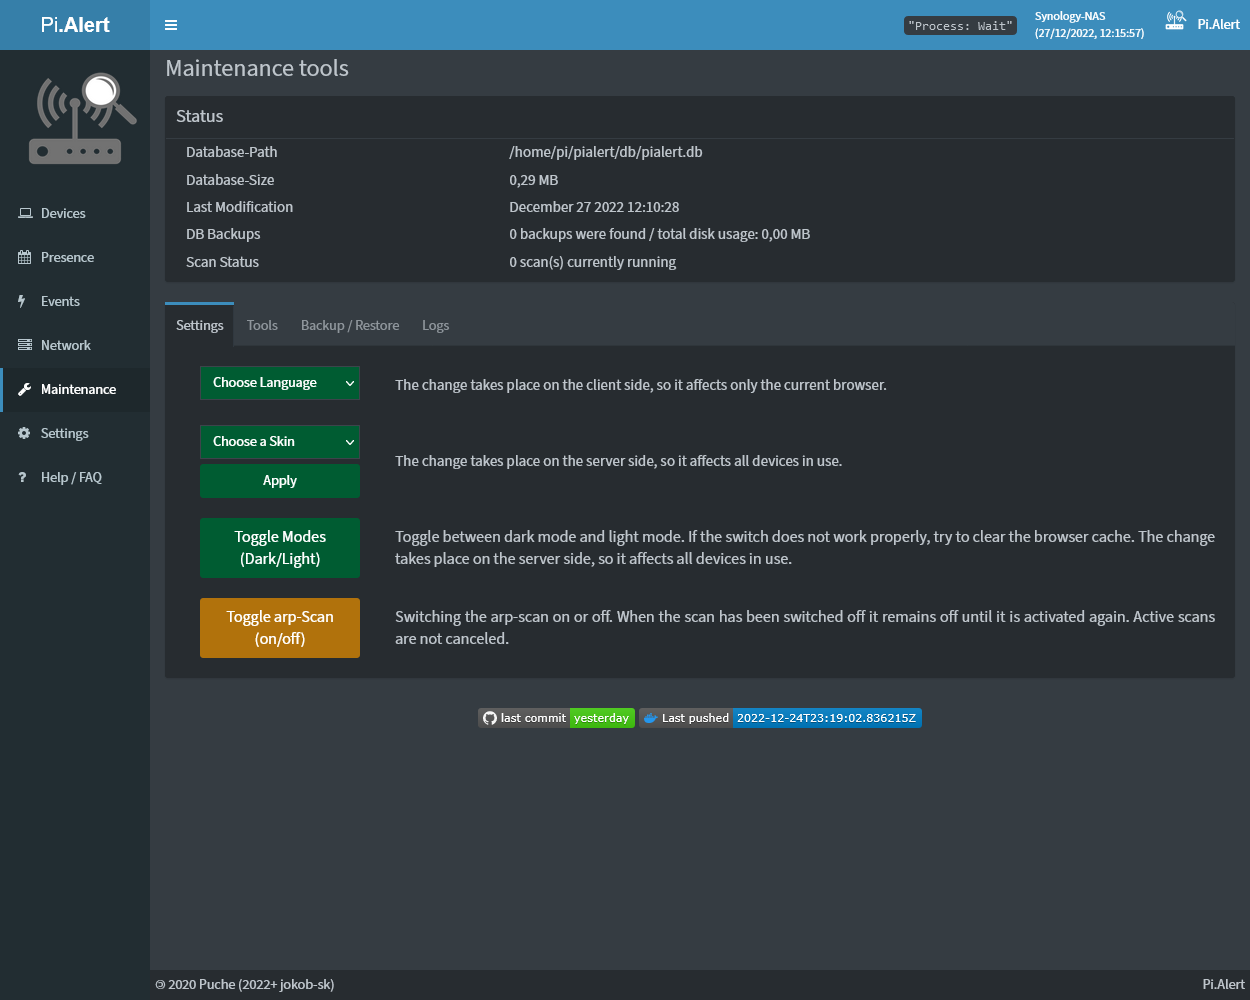
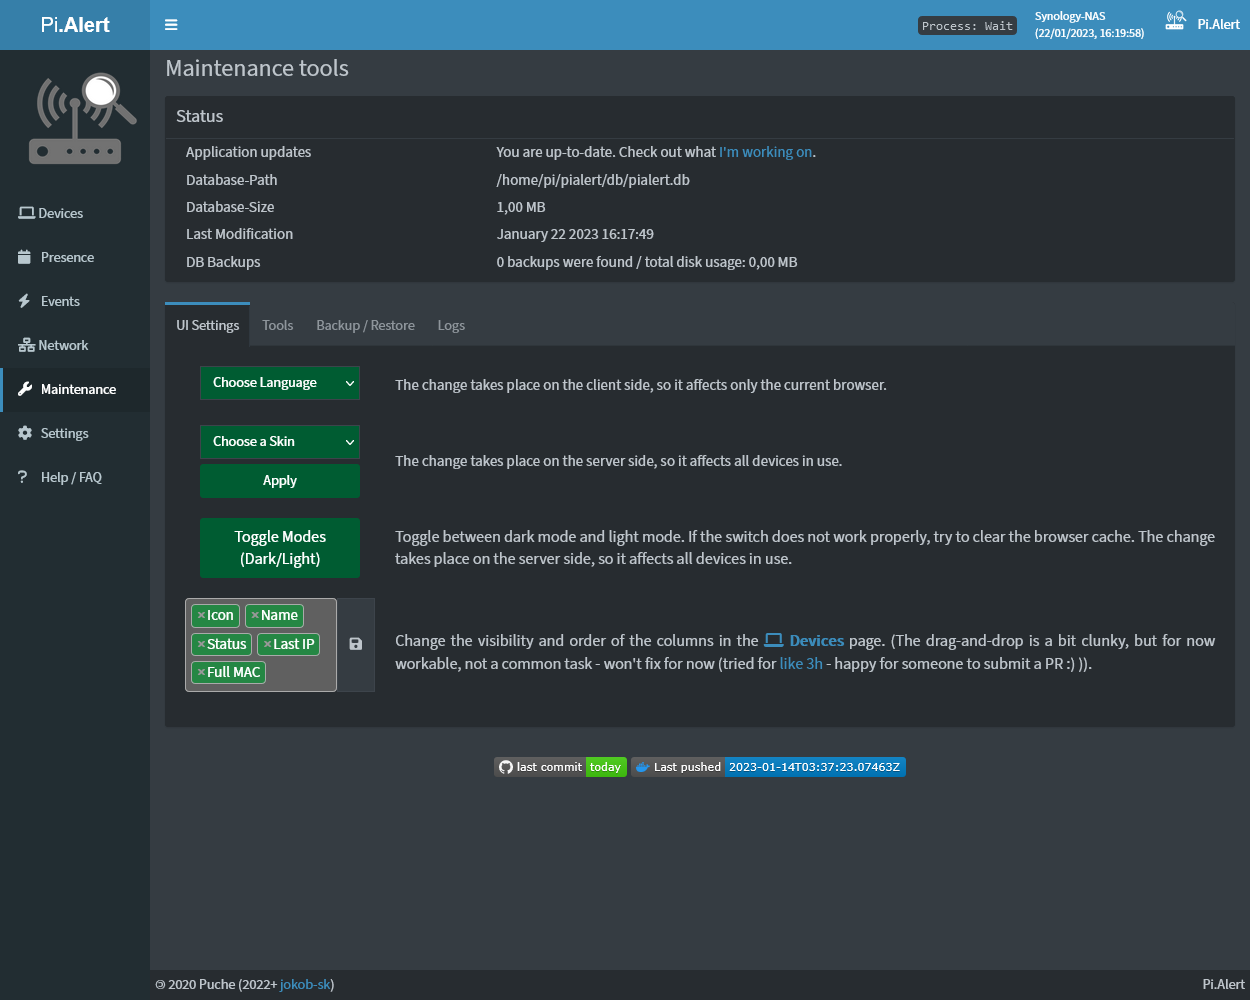
New screenshots

diff --git a/front/css/pialert.css b/front/css/pialert.css
@@ -691,6 +691,9 @@ height: 50px;
     margin: 10px;
     
 }
+#settingsPage .panel-heading:hover{    
+    background-color: #272c30;
+}
 
 .settings-expand-icon {
     font-size: medium;

diff --git a/back/pialert.py b/back/pialert.py
@@ -20,6 +20,7 @@ from email.mime.text import MIMEText
 import sys
 import subprocess
 import os
+import tempfile
 import re
 import time
 import decimal
@@ -112,6 +113,8 @@ def print_log (pText):
 
     # Save current time to calculate elapsed time until next log
     log_timestamp = log_timestamp2 
+
+    return pText
     
 #-------------------------------------------------------------------------------
 # check RW access of DB and config file
@@ -255,7 +258,7 @@ def importConfig ():
     # General
     global ENABLE_ARPSCAN, SCAN_SUBNETS, PRINT_LOG, TIMEZONE, PIALERT_WEB_PROTECTION, PIALERT_WEB_PASSWORD, INCLUDED_SECTIONS, SCAN_CYCLE_MINUTES, DAYS_TO_KEEP_EVENTS, REPORT_DASHBOARD_URL, DIG_GET_IP_ARG
     # Email
-    global REPORT_MAIL, SMTP_SERVER, SMTP_PORT, REPORT_TO, REPORT_FROM, SMTP_SKIP_LOGIN, SMTP_USER, SMTP_PASS, SMTP_SKIP_TLS
+    global REPORT_MAIL, SMTP_SERVER, SMTP_PORT, REPORT_TO, REPORT_FROM, SMTP_SKIP_LOGIN, SMTP_USER, SMTP_PASS, SMTP_SKIP_TLS, SMTP_FORCE_SSL
     # Webhooks
     global REPORT_WEBHOOK, WEBHOOK_URL, WEBHOOK_PAYLOAD, WEBHOOK_REQUEST_METHOD
     # Apprise
@@ -312,6 +315,7 @@ def importConfig ():
     SMTP_USER = ccd('SMTP_USER', '' , c_d, 'SMTP user', 'text', '', 'Email')
     SMTP_PASS = ccd('SMTP_PASS', '' , c_d, 'SMTP password', 'password', '', 'Email')
     SMTP_SKIP_TLS = ccd('SMTP_SKIP_TLS', False , c_d, 'SMTP skip TLS', 'boolean', '', 'Email')
+    SMTP_FORCE_SSL = ccd('SMTP_FORCE_SSL', False , c_d, 'Force SSL', 'boolean', '', 'Email')
 
     # Webhooks
     REPORT_WEBHOOK = ccd('REPORT_WEBHOOK', False , c_d, 'Enable Webhooks', 'boolean', '', 'Webhooks', ['test'])
@@ -2383,21 +2387,58 @@ def send_email (pText, pHTML):
     msg.attach (MIMEText (pText, 'plain'))
     msg.attach (MIMEText (pHTML, 'html'))
 
-    # Send mail
-    smtp_connection = smtplib.SMTP (SMTP_SERVER, SMTP_PORT)
-    smtp_connection.ehlo()
+    failedAt = ''
 
-    try: 
-        if not SMTP_SKIP_TLS:            
+    failedAt = print_log ('SMTP try')
+
+    try:
+        # Send mail
+        failedAt = print_log('Trying to open connection to ' + str(SMTP_SERVER) + ':' + str(SMTP_PORT))
+
+        if SMTP_FORCE_SSL:
+            failedAt = print_log('SMTP_FORCE_SSL == True so using .SMTP_SSL()')
+            if SMTP_PORT == 0:            
+                failedAt = print_log('SMTP_PORT == 0 so sending .SMTP_SSL(SMTP_SERVER)')
+                smtp_connection = smtplib.SMTP_SSL(SMTP_SERVER)
+            else:
+                failedAt = print_log('SMTP_PORT == 0 so sending .SMTP_SSL(SMTP_SERVER, SMTP_PORT)')
+                smtp_connection = smtplib.SMTP_SSL(SMTP_SERVER, SMTP_PORT)
+            
+        else:
+            failedAt = print_log('SMTP_FORCE_SSL == False so using .SMTP()')
+            if SMTP_PORT == 0:
+                failedAt = print_log('SMTP_PORT == 0 so sending .SMTP(SMTP_SERVER)')
+                smtp_connection = smtplib.SMTP (SMTP_SERVER)
+            else:
+                failedAt = print_log('SMTP_PORT == 0 so sending .SMTP(SMTP_SERVER, SMTP_PORT)')
+                smtp_connection = smtplib.SMTP (SMTP_SERVER, SMTP_PORT)
+
+        failedAt = print_log('Setting SMTP debug level')
+        smtp_connection.set_debuglevel(1) 
+        
+        failedAt = print_log( 'Sending .ehlo()')
+        smtp_connection.ehlo()
+
+        if not SMTP_SKIP_TLS:       
+            failedAt = print_log('SMTP_SKIP_TLS == False so sending .starttls()')
             smtp_connection.starttls()
+            failedAt = print_log('SMTP_SKIP_TLS == False so sending .ehlo()')
             smtp_connection.ehlo()
         if not SMTP_SKIP_LOGIN:
+            failedAt = print_log('SMTP_SKIP_LOGIN == False so sending .login()')
             smtp_connection.login (SMTP_USER, SMTP_PASS)
-
-            smtp_connection.sendmail (REPORT_FROM, REPORT_TO, msg.as_string())
-            smtp_connection.quit()
+            
+        failedAt = print_log('Sending .sendmail()')
+        smtp_connection.sendmail (REPORT_FROM, REPORT_TO, msg.as_string())
+        smtp_connection.quit()
     except smtplib.SMTPAuthenticationError as e: 
-        file_print('      ERROR: Couldn\'t connect to the SMTP server, skipping Email')
+        file_print('      ERROR: Failed at - ', failedAt)
+        file_print('      ERROR: Couldn\'t connect to the SMTP server (SMTPAuthenticationError), skipping Email (enable PRINT_LOG for more logging)')
+    except smtplib.SMTPServerDisconnected as e: 
+        file_print('      ERROR: Failed at - ', failedAt)
+        file_print('      ERROR: Couldn\'t connect to the SMTP server (SMTPServerDisconnected), skipping Email (enable PRINT_LOG for more logging)')
+
+    file_print('      DEBUG: Last executed - ', failedAt)
 
 
 #-------------------------------------------------------------------------------

diff --git a/front/php/templates/language/en_us.php b/front/php/templates/language/en_us.php
@@ -515,9 +515,9 @@ the arp-scan will take hours to complete instead of seconds.
 'REPORT_MAIL_name' => 'Enable email',
 'REPORT_MAIL_description' => 'If enabled an email is sent out with a list of changes you\'ve subscribed to. Please also fill out all remaining settings related to the SMTP setup below.',
 'SMTP_SERVER_name' => 'SMTP server URL',
-'SMTP_SERVER_description' => 'The SMTP server host URL. For example <code>smtp-relay.sendinblue.com</code>.',
+'SMTP_SERVER_description' => 'The SMTP server host URL. For example <code>smtp-relay.sendinblue.com</code>. I don\'t recommend using Gmail as an SMTP server as the setup is <a target="_blank" href="https://support.google.com/a/answer/176600">quite complex</a> (I couldn\'t get it to work - Please reach out with a guide if you did)',
 'SMTP_PORT_name' => 'SMTP server PORT',
-'SMTP_PORT_description' => 'Port number used for the SMTP connection.',
+'SMTP_PORT_description' => 'Port number used for the SMTP connection. Set to <code>0</code> if you don\'t want to use a port when connecting to the SMTP server.',
 'SMTP_SKIP_LOGIN_name' => 'Skip authentication',
 'SMTP_SKIP_LOGIN_description' => 'Don\'t use authentication when connecting to the  SMTP server.',
 'SMTP_USER_name' => 'SMTP user',
@@ -526,6 +526,8 @@ the arp-scan will take hours to complete instead of seconds.
 'SMTP_PASS_description' => 'The SMTP server password. ',
 'SMTP_SKIP_TLS_name' => 'Don\'t use TLS',
 'SMTP_SKIP_TLS_description' => 'Disable TLS when connecting to your SMTP server.',
+'SMTP_FORCE_SSL_name' => 'Force SSL',
+'SMTP_FORCE_SSL_description' => 'Force SSL when connecting to your SMTP server.',
 'REPORT_TO_name' => 'Send email to',
 'REPORT_TO_description' => 'Email address to which the notification will be send to.',
 'REPORT_FROM_name' => 'Email subject',

diff --git a/front/devices.php b/front/devices.php
@@ -337,7 +337,7 @@ function initializeDatatable () {
       // Device Name
       {targets: [mapIndx(0)],
         'createdCell': function (td, cellData, rowData, row, col) {
-            $(td).html ('<b><a href="deviceDetails.php?mac='+ rowData[mapIndx(11)] +'" class="">'+ cellData +'</a></b>');
+            $(td).html ('<b class="anonymizeDev"><a href="deviceDetails.php?mac='+ rowData[mapIndx(11)] +'" class="">'+ cellData +'</a></b>');
       } },
 
       // Icon      
@@ -349,6 +349,27 @@ function initializeDatatable () {
             $(td).html ('');
           }
       } },
+
+      // Full MAC      
+      {targets: [mapIndx(11)],
+        'createdCell': function (td, cellData, rowData, row, col) {
+          if (!emptyArr.includes(cellData)){
+            $(td).html ('<span class="anonymizeMac">'+cellData+'</span>');
+          } else {
+            $(td).html ('');
+          }
+      } },
+      
+      // IP address      
+      {targets: [mapIndx(12)],
+        'createdCell': function (td, cellData, rowData, row, col) {
+          if (!emptyArr.includes(cellData)){
+            $(td).html ('<span class="anonymizeIp">'+cellData+'</span>');
+          } else {
+            $(td).html ('');
+          }
+      } },
+      
       // Favorite      
       {targets: [mapIndx(4)],
         'createdCell': function (td, cellData, rowData, row, col) {

diff --git a/front/settings.php b/front/settings.php
@@ -43,7 +43,7 @@ while ($row = $result -> fetchArray (SQLITE3_ASSOC)) {
 
 ?>
 <!-- Page ------------------------------------------------------------------ -->
-<div class="content-wrapper">
+<div id="settingsPage" class="content-wrapper">
 
 <!-- Content header--------------------------------------------------------- -->
     <section class="content-header">
@@ -285,7 +285,7 @@ while ($row = $result -> fetchArray (SQLITE3_ASSOC)) {
 <script>
 
   // number of settings has to be equal to
-  var settingsNumber = 60;
+  var settingsNumber = 61;
 
   // Wrong number of settings processing
   if(<?php echo count($settings)?> != settingsNumber) 
@@ -374,9 +374,7 @@ while ($row = $result -> fetchArray (SQLITE3_ASSOC)) {
       method: "POST",
       url: "../php/server/util.php",
       data: { function: 'savesettings', settings: collectSettings() },
-      success: function(data, textStatus) {
-          // $("#result").html(data);    
-          // console.log(data);
+      success: function(data, textStatus) {                    
           showModalOk ('Result', data );
           // Remove navigation prompt "Are you sure you want to leave..."
           window.onbeforeunload = null;

diff --git a/front/network.php b/front/network.php
@@ -602,9 +602,9 @@
                                  background-color:" +nodeData.data.color+";\
                                  border-radius:5px;'\
                           >\
-                          <div class='netNodeText'>\
+                          <div class='netNodeText '>\
                             <strong>" + deviceIcon +
-                              "<span class='spanNetworkTree'>"+nodeData.data.name+"</span>\
+                              "<span class='spanNetworkTree anonymizeDev'>"+nodeData.data.name+"</span>\
                             </strong>"
                             +collapseExpandHtml+ 
                           "</div></div>";
